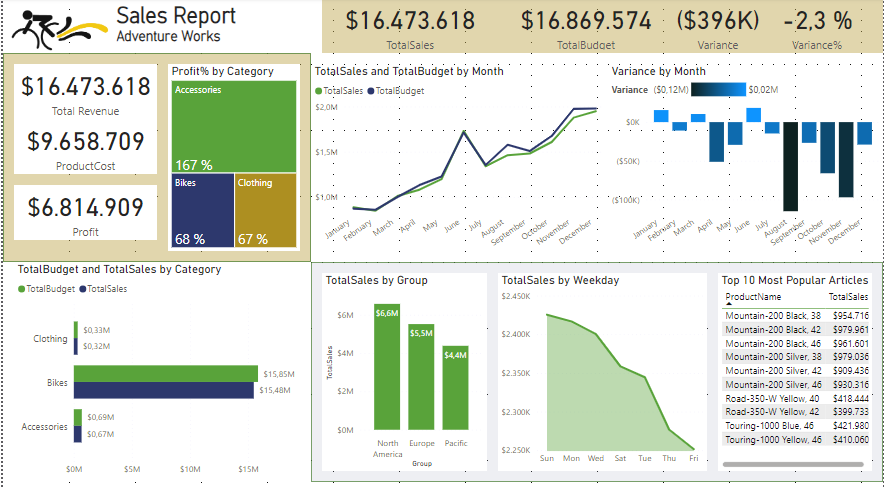
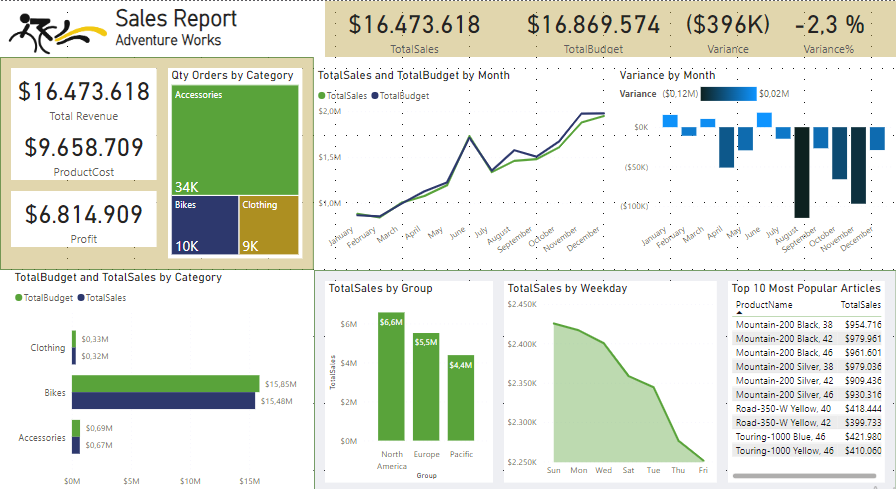
Improve documentation
Improve charts

diff --git a/AdventureWorks/Readme.md b/AdventureWorks/Readme.md
@@ -39,24 +39,59 @@ Code M:
 
 - Model Framework: Import model, because I can integrate source data. Support all DAX and Power Query (M) functionality. - Support calculated tables. Deliver the best query performance.
 - Semantic Model: Create a Data table, create relationships, use relationship function to create a viz using the same calendar table.
+
 ![USERELATIONSHIP()](image-3.png)
 
-- Measures, Calculate tables and columns: Simple Measures (SUM, AVERAGE, COUNT, DISTINCTCOUNT, COUNTROWS).
+- Measures, Calculate tables and columns:
+Some of the measures and calculate tables and columns are the following:
+    
+    ## Measures
+    Delivery Qty = CALCULATE(COUNT(Sales[SalesOrderNumber]), USERELATIONSHIP(Sales[ShipDate],'Calendar'[Date]))
+    Profit = [Total Revenue] - [ProductCost]
+    Qty Products Sold = SUM(Sales[OrderQuantity])
+    TOP10 Products = SUMX(
+                    TOPN( 5, 'Product', 'Product'[ProductName], ASC), [TotalSales])
+    TotalBudget = Sum(Budget[BudgetAmount])
+    Variance = Sales[TotalSales] - Budget[TotalBudget]
+    Variance% = DIVIDE([Variance], Budget[TotalBudget])
+    Average Price = AVERAGE(Sales[UnitPrice])
+    Count Rows = COUNTROWS(Sales)
+    Qty Shipped = DISTINCTCOUNT(Sales[SalesOrderLineNumber])
+    Max Price = MAX(Sales[UnitPrice])
+    Mini Price = MIN(Sales[UnitPrice])
+    
+    ## Calculate Tables
+    Pct Sales Forecast = GENERATESERIES(CURRENCY(1), CURRENCY(1.5), CURRENCY(0.05))
+    Pct Sales Forecast Value = SELECTEDVALUE('Pct Sales Forecast'[Pct Sales Forecast], 100)
+    Ship Date = 'Date'
+
+    ## Calculate Columns
+    Days to Send = DATEDIFF(Sales[OrderDate], Sales[ShipDate] ,DAY)
+    Total Sales Amount = Sales[SalesAmount] + Sales[TaxAmt]
+
 ![Measures](image-4.png)
 
-- Calculate Tables and What if Parameter.
+- What if Parameter.
 ![Calculate Tables](image-5.png)
-
-- Time Intelligence.
 
 
 ## Visualization
-Turn data into interactive, actionable insights. Configure report visuals: Filter, group, summarize.
-![Sales Report](image.png)
+Turn data into interactive, actionable insights. Here is the final result with the information provided for Adventure Works.
 
-![Decomposition Tree](image-6.png)
+![Sales Report 2016](image.png)
 
-## Optimize the model
+![What if Parameter](image-6.png)
 
-## Security
+# Insights 
+
+## Sales Performance Analysis for the Year 2016:
+
+A meticulous examination reveals a 2.3% variance between the actual sales and the budgeted figures during the fiscal year 2016. This variance necessitates further investigation to identify contributing factors and potential areas for optimization.
+
+Profitability by Product Category:
+The product category demonstrating the most substantial profit margin is accessories. This suggests a strategic focus on accessories could be advantageous for enhancing overall profitability.
+
+Sales Point Performance by Day of the Week:
+In scrutinizing sales patterns across the week, it is evident that Sundays and Mondays consistently record the highest sales figures. In contrast, Fridays exhibit the lowest sales performance throughout the year. Understanding and leveraging these day-specific trends could inform targeted marketing or operational strategies to maximize sales potential.
+
 
